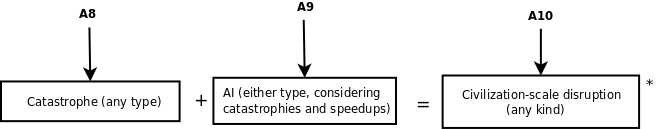
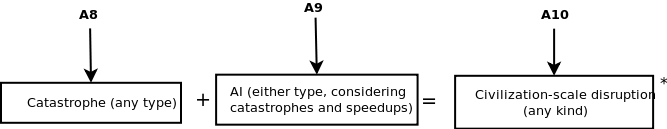
Fixed most of Steven's nitpicks
git-svn-id: svn+ssh://10.37.55.100/usr/local/svn/uf@18 66b5f39b-87a2-44c3-adb7-4b08653a3962

diff --git a/web/ufHelp/Q2.html b/web/ufHelp/Q2.html
@@ -39,7 +39,7 @@ law</A></U> level off?  The points on the graph show past data.
 	<LI><P CLASS="western" STYLE="margin-bottom: 0in"><B>Claim: </B>&quot;In
 	terms of size [of transistor] you can see that we're approaching the
 	size of atoms which is a fundamental barrier, but it'll be two or
-	three generations before we get that far - but that's as far out as
+	three generations before we get that far &mdash; but that's as far out as
 	we've ever been able to see. We have another 10 to 20 years before
 	we reach a fundamental limit. Electronics though is a fundamental
 	technology that's not likely to be replaced directly. There's a
@@ -79,7 +79,7 @@ law</A></U> level off?  The points on the graph show past data.
 	century.
 	<input type="button" onclick="loadPercentiles('Kurzweil', 14.5, 16.0855, 17.671);" value="Load distribution"</input><BR>
 	<B>Source: </B>Kurzweil, Ray. &quot;The Law of
-	Accelerating Returns.&quot; KurzweilAI.net. 7 Mar. 2001. Retrieved 8
+	Accelerating Returns.&quot; KurzweilAI.net. 7 Mar. 2001. 8
 	Aug. 2008
 	&lt;<FONT COLOR="#000080"><U><A TARGET="_blank" CLASS="western" HREF="http://www.kurzweilai.net/articles/art0134.html?printable=1" TARGET="_blank">http://www.kurzweilai.net/articles/art0134.html?printable=1</A></U></FONT>&gt;.</P>
 </UL>

diff --git a/web/ufHelp/Q9-1.html b/web/ufHelp/Q9-1.html
@@ -51,7 +51,7 @@ human genome for less than $1000?</P>
 	2009&quot;. 23 September 2008. 
 	&lt;<FONT COLOR="#000080"><U><A TARGET="_blank" HREF="http://www.genomeweb.com/sequencing/pgp-publish-initial-data-sets-next-month-church-predicts-1000-genome-2009">http://www.genomeweb.com/sequencing/pgp-publish-initial-data-sets-next-month-church-predicts-1000-genome-2009</A></U></FONT>&gt;
 	</P>
-	<LI><P CLASS="western" STYLE="margin-bottom: 0in">
+	<!--<LI><P CLASS="western" STYLE="margin-bottom: 0in">
 	<B>Claim:</B>
 	The first human genome cost
 	either $3 billion (Human Genome Project) or $300 million (Celera
@@ -74,7 +74,7 @@ human genome for less than $1000?</P>
 	Singer, Emily. &quot;Five Thousand Bucks for Your Genome.&quot; Technology
 	Review. 6 October 2008. Massachusetts Institute of Technology.
 &lt;<U><A TARGET="_blank" HREF="http://www.technologyreview.com/biomedicine/21466/">http://www.technologyreview.com/biomedicine/21466/</FONT></A></U>&gt;<BR>
-	</P>
+	</P>-->
 	<LI><P CLASS="western" STYLE="margin-bottom: 0in">
 	<B>Claim:</B>
 	The cost of gene sequencing (per base pair) has been decreasing

diff --git a/web/ufHelp/Q7.html b/web/ufHelp/Q7.html
@@ -57,10 +57,10 @@ go on the right-hand side of the graph, near 2070.
 	nuclear war, are not impossible and may be quite likely in the next
 	10-20 years.
 	<input type="button" onclick="loadPercentile('Lugar', -2.6021, -2.1249, -1.622, -2.6026, -2.3010, -2.0);" value="Load distribution"</input><BR>
-	<B>Source:</B> Lugar, Richard G. The Lugar Survey on
+	<B>Source:</B> Lugar, Richard G., United States Senator for
+	Indiana. The Lugar Survey on
 	Proliferation Threats and Responses. Washington, D.C.: Office of
-	Senator Lugar, 2005.<BR>Richard G. Lugar, United States Senator for
-	Indiana. 9 Aug. 2008 &lt;<U><A TARGET="_blank" CLASS="western" HREF="http://lugar.senate.gov/reports/npsurvey.pdf" TARGET="_blank">http://lugar.senate.gov/reports/npsurvey.pdf</A></U>&gt;.
+	Senator Lugar, 2005.<BR> 9 Aug. 2008 &lt;<U><A TARGET="_blank" CLASS="western" HREF="http://lugar.senate.gov/reports/npsurvey.pdf" TARGET="_blank">http://lugar.senate.gov/reports/npsurvey.pdf</A></U>&gt;.
 	Pg. 22.</P>
 	<LI><P CLASS="western">
 	<B>Claim:</B> The US has expressed

diff --git a/web/ufHelp/Q9-4.html b/web/ufHelp/Q9-4.html
@@ -50,8 +50,7 @@ research sectors of developing countries.
 	&lt;<U><A HREF="http://www.geneticsandsociety.org/article.php?id=3540" TARGET="_blank">http://www.geneticsandsociety.org/article.php?id=3540</A></U>&gt;.<BR>
 	Smith, Wesley J. &quot;The U.N. on Cloning: Ban It.&quot; <I>The Daily
 	Standard</I>. 15 Mar. 2005. Retrieved 9 Aug. 2008.
-	&lt;<U><A HREF="http://www.weeklystandard.com/content/public/articles/000/000/005/360mveat.asp" TARGET="_blank">http://www.weeklystandard.com/content/public/articles/000/000/005/360mveat.asp</A>
-</U>&gt;.</P>
+	&lt;<U><A HREF="http://www.weeklystandard.com/content/public/articles/000/000/005/360mveat.asp" TARGET="_blank">http://www.weeklystandard.com/content/public/articles/000/000/005/360mveat.asp</A></U>&gt;.</P>
 	<LI><P CLASS="western" STYLE="margin-bottom: 0in">
 	<B>Claim:</B> As with other medical
 	technologies that were once feared and are now routine, such as the

diff --git a/web/ufHelp/A10.html b/web/ufHelp/A10.html
@@ -11,7 +11,7 @@ halt progress.</p>
 <p><img src="../img/A10.png" alt="Overview of process" /></p>
 <p>The information from <strong>A8</strong> and <strong>A9</strong> combined gives the probability for a civilization-scale disruption (either human-level AI or a catastrophe halting all scientific progress) having occurred at various times in the future.</p>
 
-<p style="font-size: 0.8em;">*The probabilities aren't just added -- take a look at the <a target="_blank" href="A10Math.html">gory math version</a> for more detail.</p>
+<p style="font-size: 0.8em;">*The probabilities aren't just added &mdash; take a look at the <a target="_blank" href="A10Math.html">gory math version</a> for more detail.</p>
 
 <h2>You're done!</h2>
 

diff --git a/web/ufHelp/A8.html b/web/ufHelp/A8.html
@@ -11,5 +11,5 @@ estimated the risk of non-nuclear catastrophes over time in <strong>Q8</strong>.
 to produce the overall probability that any type of catastrophe will have halted 
 scientific progress at various points in the future.</p>
 
-<p style="font-size: 0.8em;">*The probabilities aren't just added -- take a look at the <a target="_blank" href="A8Math.html">gory math version</a> for more detail.</p>
+<p style="font-size: 0.8em;">*The probabilities aren't just added &mdash; take a look at the <a target="_blank" href="A8Math.html">gory math version</a> for more detail.</p>
 </body>

diff --git a/web/ufHelp/Q4.html b/web/ufHelp/Q4.html
@@ -12,6 +12,9 @@
 </script>
 </head>
 <body>
+<P CLASS="western" STYLE="margin-bottom: 0in">How much money will be
+available for the most well-funded neuromorphic AI projects?
+</P>
 <UL>
 	<LI><P CLASS="western" STYLE="margin-bottom: 0in">
 	<B>Claim: </B>Terry

diff --git a/java/src/org/singinst/uf/model/GeneLearningExtreme.java b/java/src/org/singinst/uf/model/GeneLearningExtreme.java
@@ -1,5 +1,6 @@
 package org.singinst.uf.model;
 
+import org.singinst.uf.common.StringUtil;
 import org.singinst.uf.presenter.HtmlUtil;
 import org.singinst.uf.presenter.LineBounds;
 import org.singinst.uf.presenter.NumericEntry;
@@ -16,14 +17,17 @@ public class GeneLearningExtreme extends YearExtremeNodeMetadataContentsFactory 
 	public ConclusionReportGenerator getConclusionGenerator() {
 		return new ConclusionReportGenerator() {
 			public String getText(ScalarValueHolder scalarValueHolder, double value) {
+//				return "The research speedup " + getYearString() + " years later has a 90% chance of being between " +
+//				HtmlUtil.green(display(getScalars().get(0).getScalarValueHolder().getValue())) + 
+//				" and " + HtmlUtil.red(display(getScalars().get(2).getScalarValueHolder().getValue()));
 				return "The research speedup " + getYearString() + " years later has a 90% chance of being between " +
-				HtmlUtil.green(display(getScalars().get(0).getScalarValueHolder().getValue())) + 
-				" and " + HtmlUtil.red(display(getScalars().get(2).getScalarValueHolder().getValue()));
+				HtmlUtil.green(StringUtil.formatMultiplier(getScalars().get(0).getScalarValueHolder().getValue())) + 
+				" and " + HtmlUtil.red(StringUtil.formatMultiplier(getScalars().get(2).getScalarValueHolder().getValue()));
 			}
 
-			private String display(double value) {
-				return NumericEntry.formatAsScalar(Math.pow(10, value)) + "x";
-			}
+//			private String display(double value) {
+//				return NumericEntry.formatAsScalar(Math.pow(10, value)) + "x";
+//			}
 		};
 	
 	}

diff --git a/java/src/org/singinst/uf/model/OtherIaExtreme.java b/java/src/org/singinst/uf/model/OtherIaExtreme.java
@@ -1,5 +1,6 @@
 package org.singinst.uf.model;
 
+import org.singinst.uf.common.StringUtil;
 import org.singinst.uf.presenter.HtmlUtil;
 import org.singinst.uf.presenter.LineBounds;
 import org.singinst.uf.presenter.NumericEntry;
@@ -15,9 +16,12 @@ public class OtherIaExtreme extends YearExtremeNodeMetadataContentsFactory {
 	public ConclusionReportGenerator getConclusionGenerator() {
 		return new ConclusionReportGenerator() {
 			public String getText(ScalarValueHolder scalarValueHolder, double value) {
+//				return "The research speedup in the year " + getYearString() + " has a 90% chance of being between " +
+//				HtmlUtil.green(display(getScalars().get(0).getScalarValueHolder().getValue())) + 
+//				" and " + HtmlUtil.red(display(getScalars().get(2).getScalarValueHolder().getValue()));
 				return "The research speedup in the year " + getYearString() + " has a 90% chance of being between " +
-				HtmlUtil.green(display(getScalars().get(0).getScalarValueHolder().getValue())) + 
-				" and " + HtmlUtil.red(display(getScalars().get(2).getScalarValueHolder().getValue()));
+				HtmlUtil.green(StringUtil.formatMultiplier(getScalars().get(0).getScalarValueHolder().getValue())) + 
+				" and " + HtmlUtil.red(StringUtil.formatMultiplier(getScalars().get(2).getScalarValueHolder().getValue()));
 			}
 
 			private String display(double value) {

diff --git a/java/src/org/singinst/uf/common/StringUtil.java b/java/src/org/singinst/uf/common/StringUtil.java
@@ -8,8 +8,12 @@ public class StringUtil {
 	// Show probabilities as 25.57% or 0.2557?
 	private static final boolean PROBABILITY_AS_PERCENTAGE = true;
 	
-	// Decimal digits to show (i.e. 2 => 25.57% or 0.26)
+	// Decimal digits to show for probabilities (i.e. 2 => 25.57% or 0.26)
 	private static final int PROBABILITY_DECIMALS = 2;
+	
+	// Decimal digits to show for multipliers (i.e. 2 => 3.44x)
+	private static final int MULTIPLIER_DECIMALS = 2;
+	
 	
 	public static String join(String delimiter, Collection<String> collection) {
 		StringBuilder builder = new StringBuilder();
@@ -39,4 +43,16 @@ public class StringUtil {
 			value = MathUtil.round(p, PROBABILITY_DECIMALS) + "";
 		return value;
 	}
+	
+	/**
+	 * Format a multiplier value for display. 
+	 * @param v
+	 * @return
+	 * @author henrik
+	 */
+	public static String formatMultiplier(double v) {
+		return MathUtil.round(v, MULTIPLIER_DECIMALS) + "x";
+	}
+	
+	
 }

diff --git a/java/src/org/singinst/uf/model/IncidentExtremeNodeMetadataContentsFactory.java b/java/src/org/singinst/uf/model/IncidentExtremeNodeMetadataContentsFactory.java
@@ -24,7 +24,7 @@ public class IncidentExtremeNodeMetadataContentsFactory extends YearExtremeNodeM
 	public ConclusionReportGenerator getConclusionGenerator() {
 		return new ConclusionReportGenerator() {
 			public String getText(ScalarValueHolder scalarValueHolder, double value) {
-				return "The likelihood at year " + getYearString() + " has a 90% chance of being between " +
+				return "The logarithm of the instantaneous rate at year " + getYearString() + " has a 90% chance of being between " +
 				HtmlUtil.green(getScalars().get(0).getScalarValueHolder().getValue()) + 
 				" and " + HtmlUtil.red(getScalars().get(2).getScalarValueHolder().getValue());
 			}

diff --git a/java/src/org/singinst/uf/model/NodeMetadataFactory.java b/java/src/org/singinst/uf/model/NodeMetadataFactory.java
@@ -33,8 +33,10 @@ public class NodeMetadataFactory {
 		setNodeScalars(q1_3, 12.5, 2.25);
 		setNodeScalars(q1_4, 5, 1);
 //		setNodeScalars(q1_5, 2018, 0.005);
+		
 		setNodeScalars(q1_5, 2.0976, 0.10);
-		setNodeScalars(q1_6, 2.0, 0.10);
+		setNodeScalars(q1_6, 2.0, 0.10);		
+		
 		//setNodeScalars(q1_6);
 		
 		return Arrays.asList(new NodeMetadata[] {
